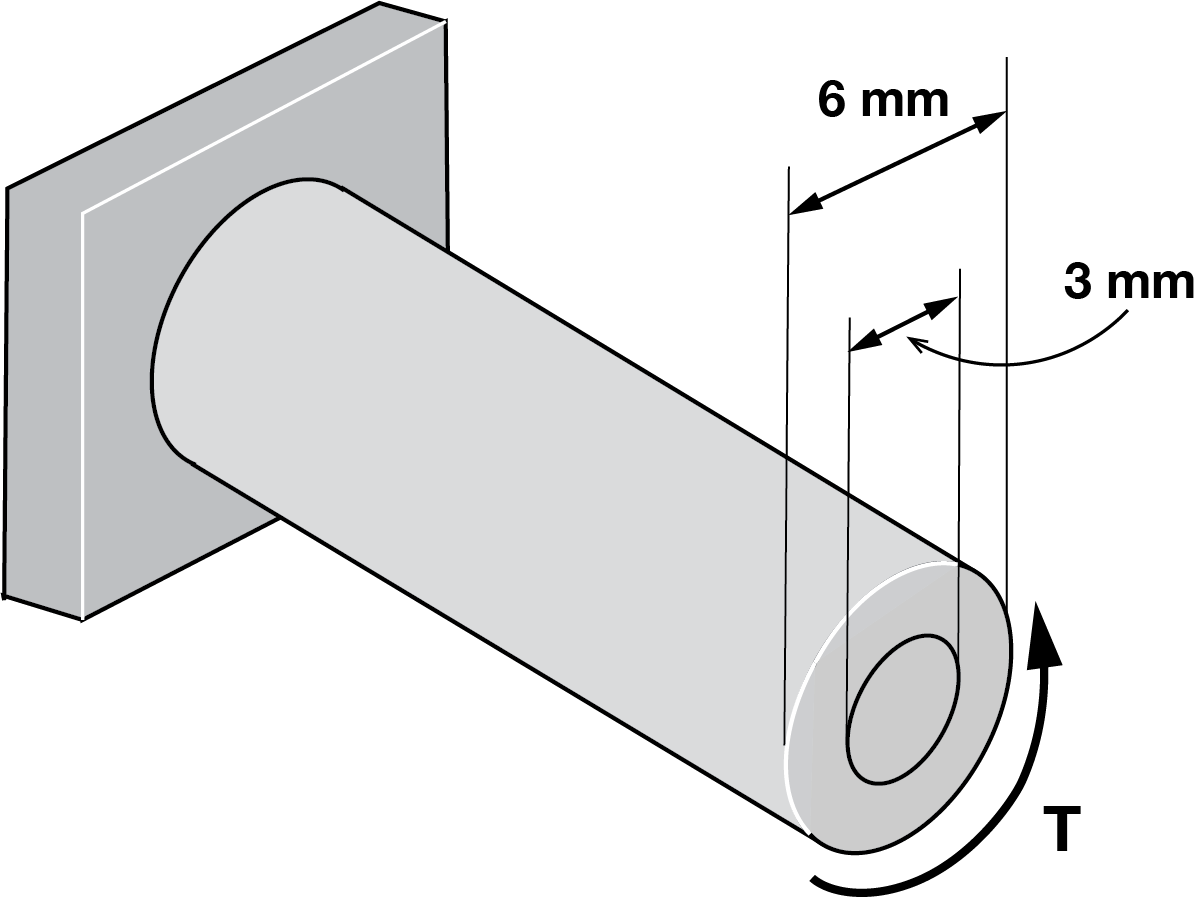
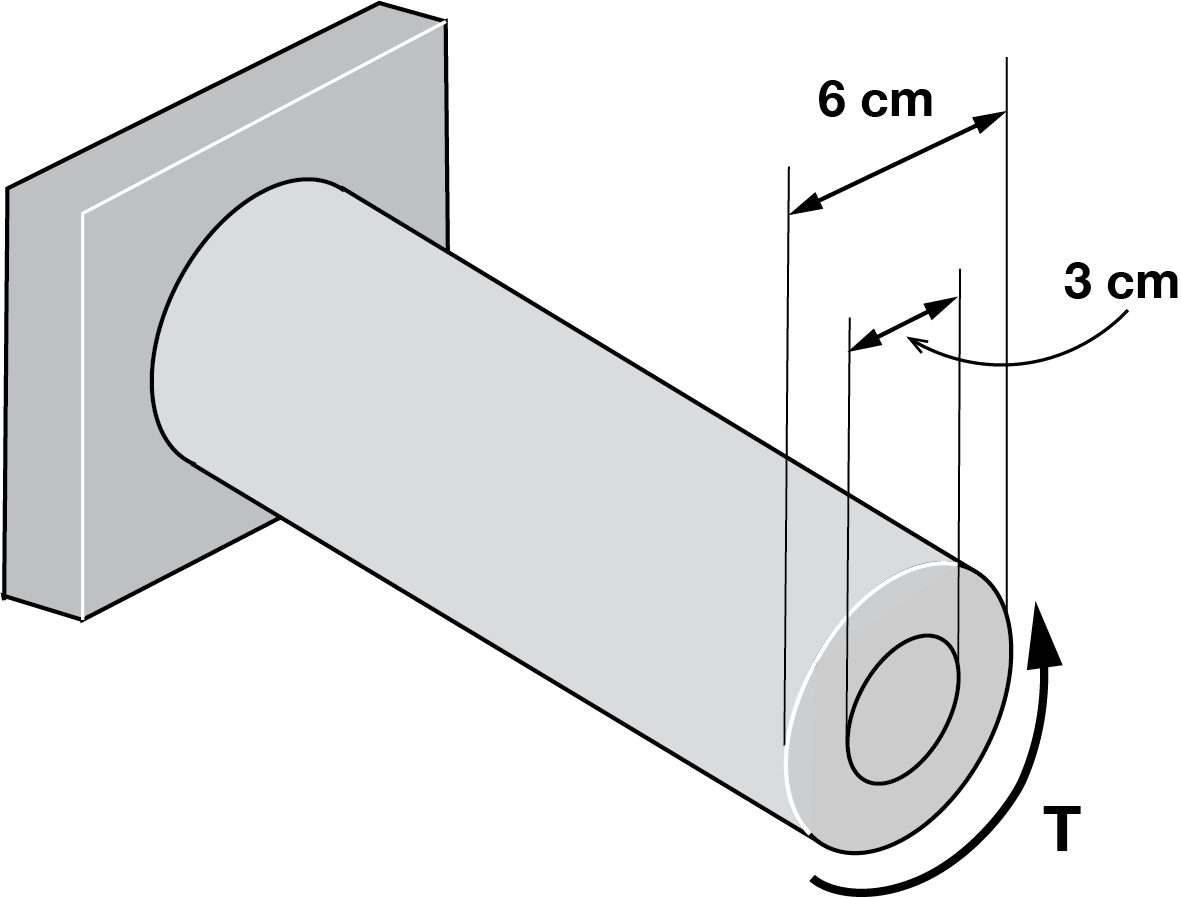
HW4 final

diff --git a/Homeworks/Homework4.md b/Homeworks/Homework4.md
@@ -3,8 +3,8 @@
 
 
 
-# ENGN0310: Homework 1
-## Due Friday 11:59 pm, September 17th, 2021
+# ENGN0310: Homework 4
+## Due Friday 11:59 pm, October 8th, 2021
 
 
 
@@ -84,7 +84,7 @@ When you take $T$, $G$, and $J$ to be constant along the shaft's length and take
 
 <u> Problem 1 (10 pts) </u>
 
-* Determine the angle of twist $\theta$ when the applied torque is $800~\rm{N \cdot m}$ in a $25~\rm{cm}$ long steel bar, whose cross section is a square with $3~\rm{cm}$ side.
+* Determine the angle of twist $\theta$ when the applied torque is $800~\rm{N \cdot m}$ in a $25~\rm{cm}$ long steel bar, whose cross section is a circle of $4~\rm{cm}$ diameter.
 <br/>
 
  <u> Problem 2 (10 pts) </u>
@@ -95,15 +95,15 @@ When you take $T$, $G$, and $J$ to be constant along the shaft's length and take
 <u> Problem 3 (10 pts total) </u>
 * (5 pts) (i) What is the ratio of Shear modulus $G$ of the materials of two shafts if the shafts are of the same size and their angle of twist are in the ratio 5/3 when subjected to equal torque?
 
-* (5 pts) (ii) Determine the angle of twist $\theta$ (in degrees) in each of the bars if one is made of steel, the other is made of titanium alloy, and the applied torque is $240~\rm{N\cdot m}$. You can take $L/J = 2.0\times10^{8}~\rm{m^{-3}}.$
+* (5 pts) (ii) Consider two shafts of different diameters, one made of steel and the other made of titanium alloy. Determine the diameter of each shaft if for both shafts, the applied torque is $240~\rm{N\cdot m}$, length of the shaft is $6~\rm{m}$, and the angle of twist at the end face is $45^{\circ}.$
 <br/>
 
 <u> Problem 4 (15 pts total) </u>
 
-* A $30~\rm{m}$ long shaft with a circular cross-sectional area of diameter $6~\rm{mm}$ is subjected to a torque of $T = 5~\rm{kN \cdot m}$. 
+* A $8~\rm{m}$ long shaft with a circular cross-sectional area of diameter $6~\rm{cm}$ is subjected to a torque of $T = 5~\rm{kN \cdot m}$. 
 
     * (10pts) (i) If the shaft gets twisted by $30^{\circ}$, what is its shear modulus? 
-    * (5pts)(ii) Now, consider that the shaft has an inner core of $3~\rm{mm}$ diameter as shown below. What is the percentage of the torque carried out by this inner core? You can assume that the core is also made out of the same material, and that the inner core undergo the same angle of twist ($30^{\circ}$ at the right end).
+    * (5pts)(ii) Now, consider that the shaft has an inner core of $3~\rm{cm}$ diameter as shown below. What is the percentage of the torque carried out by this inner core? You can assume that the core is also made out of the same material, and that the inner core undergo the same angle of twist ($30^{\circ}$ at the right end).
 
  <br/>
     <center>
@@ -113,20 +113,20 @@ When you take $T$, $G$, and $J$ to be constant along the shaft's length and take
 
 <u> Problem 5 (15 pts total) </u>
 
-* A $2~\rm{m}$ long shaft with a rectangular cross-section of sides $2~\rm{cm}$ and $4~\rm{cm}$ is subjected to a force couple as shown below. 
+* A $3~\rm{m}$ long shaft with a with a circular cross-sectional area of diameter $5~\rm{cm}$ is subjected to a force couple as shown below, where $F = 15~\rm{kN}$. 
 
     * (5pts) (i) What is the torque $T$ acting on the shaft?    
-    * (5pts) (ii) What is the shaft's polar moment of inertia $J$?
-    * (5pts) (iii) If the shaft gets twisted by $30^{\circ}$, what is its shear modulus?
+    * (5pts) (ii)  If the shaft gets twisted by $30^{\circ}$, what is its shear modulus?
+    * (5pts) (iii))  Determine the angle of twist half-way along the length of the shaft.
 
  <br/>
     <center>
-     <img src="HW4_Prob5fig.png" alt="drawing" width="300"/>
+     <img src="HW4_Prob5fig_ver2.png" alt="drawing" width="300"/>
     </center>
 
 
 <u> Problem 6 (20 pts total) </u>
-* A smaller steel shaft $\rm{AB}$ of diameter $\rm{d_{AB}}= 50~\rm{mm}$ and length $\rm{L_{AB}}= 1~\rm{m}$ is attached to a larger steel shaft $\rm{BC}$ of diameter $\rm{d_{AB}}= 75~\rm{mm}$ and length $\rm{L_{AB}}= 2~\rm{m}$.  Consider the torque  $\boldsymbol{T}=T \hat{\boldsymbol{E}}_{\rm{a}}$, $T = 300~\rm{N} $ acting at $\rm{A}$ as shown. 
+* A smaller steel shaft $\rm{AB}$ of diameter $\rm{d_{AB}}= 50~\rm{mm}$ and length $\rm{L_{AB}}= 1~\rm{m}$ is attached to a larger steel shaft $\rm{BC}$ of diameter $\rm{d_{BC}}= 75~\rm{mm}$ and length $\rm{L_{BC}}= 2~\rm{m}$.  Consider the torque  $\boldsymbol{T}=T \hat{\boldsymbol{E}}_{\rm{a}}$, $T = 3~\rm{kN \cdot m} $ acting at $\rm{A}$ as shown. 
 
     * (5pts) (i) What are the polar moment of inertia $J$ in shaft $\rm{AB}$ and shaft $\rm{BC}$ respectively?
     * (5pts) (ii) Determine the angle of twist at point $\rm{B}$.
@@ -141,7 +141,7 @@ When you take $T$, $G$, and $J$ to be constant along the shaft's length and take
 
 
 <u> Problem 7 (20 pts total) </u>
-* Now, consider a similar problem but with two torques $T_A = 600~\rm{N}$ and $T_B =1200~\rm{N}$ acting at $\rm{A}$ and $\rm{B}$ as shown. All other dimensions/quantities remain the same.
+* Now, consider a similar problem but with two torques $T_A = 6~\rm{kN \cdot m}$ and $T_B =12~\rm{kN \cdot m}$ acting at $\rm{A}$ and $\rm{B}$ as shown. All other dimensions/quantities remain the same.
 
     * (5pts) (i) What are the torques acting in shaft $\rm{AB}$ and shaft $\rm{BC}$ respectively?
     * (5pts) (ii) Determine the angle of twist at point $\rm{B}$.

diff --git a/Homeworks/index.md b/Homeworks/index.md
@@ -5,3 +5,5 @@
 * [Homework2](HW2.md)
 * [Homework2 Solution](HW2_Solutions.md)
 * [Homework3](HW3.md)
+* [Homework4](Homework4.md)
+
